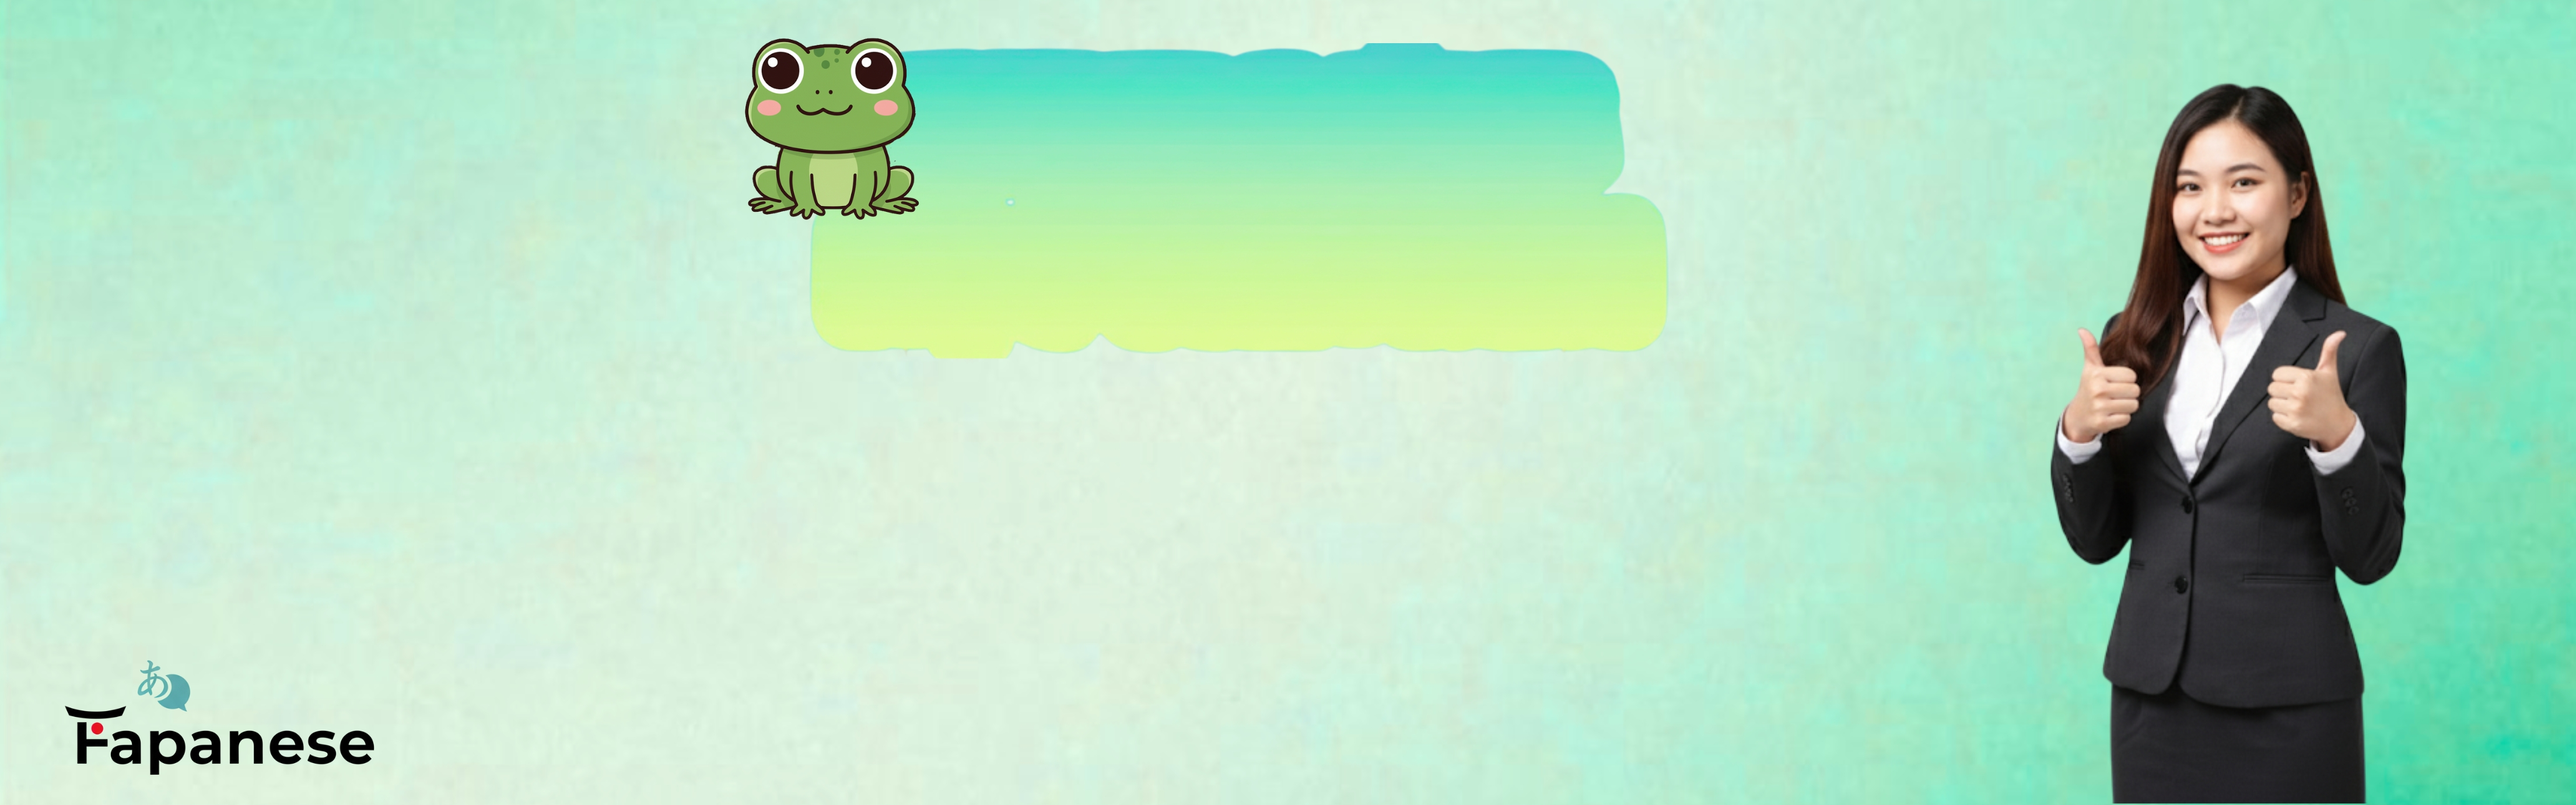
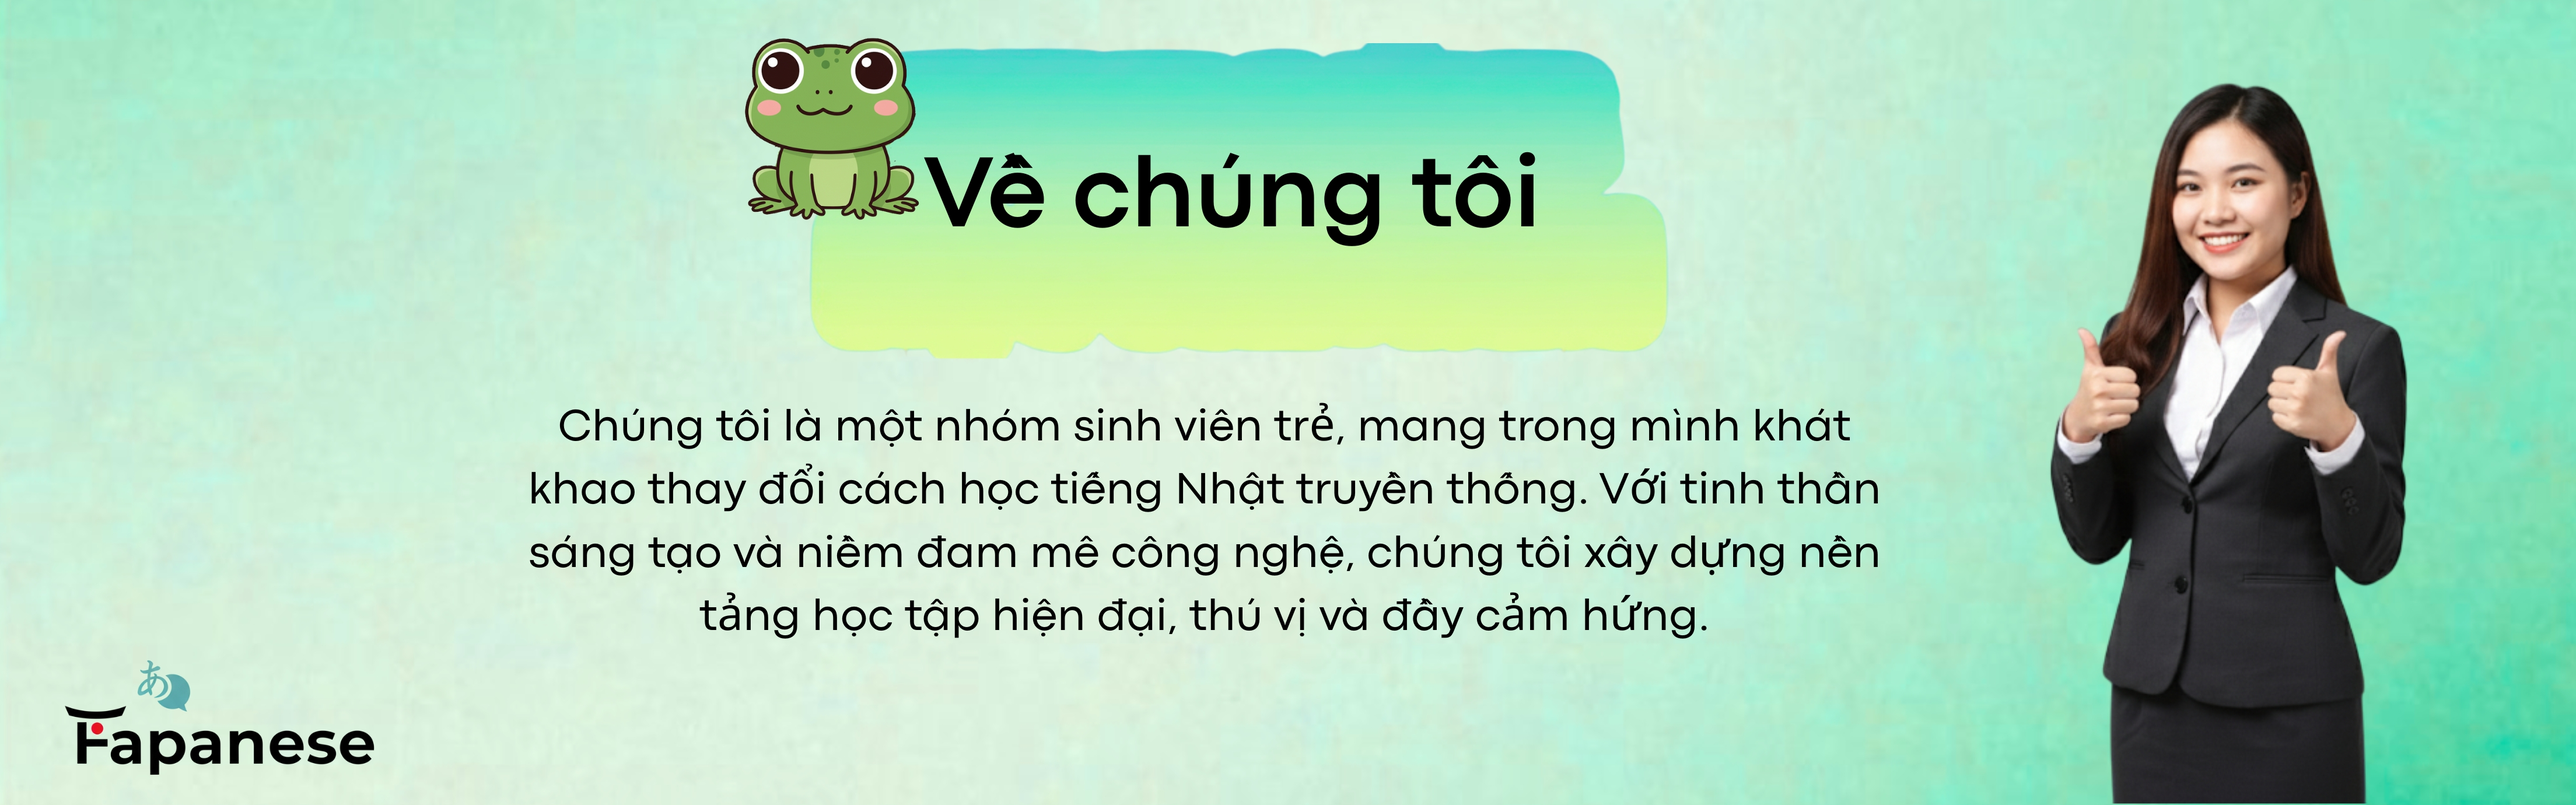
update aboutus

diff --git a/frontend/fapanese-frontend/src/pages/AboutUs.tsx b/frontend/fapanese-frontend/src/pages/AboutUs.tsx
@@ -47,6 +47,10 @@ const AboutUs: React.FC = () => {
   return (
     <div className="bg-gradient-to-b from-blue-50 to-white min-h-screen overflow-hidden font-nunito">
       {/* Hero Section */}
+      <section>
+        <img src={AboutUsBanner} alt="" className="h-[100%] mt-20 "/>
+      </section>
+  
   
 
       {/* Technologies Section */}
@@ -89,7 +93,7 @@ const AboutUs: React.FC = () => {
       <section className="py-28 bg-white relative overflow-hidden">
         <div className="max-w-6xl mx-auto text-center mb-16">
           <h2 className="text-4xl md:text-5xl font-extrabold text-gray-800 mb-4">
-            Giá Trị <span  className="text-4xl md:text-5    xl font-extrabold text-[#80D9E6]  ">Cốt Lõi</span>
+            Giá Trị <span  className="text-4xl md:text-5xl font-extrabold text-[#80D9E6]  ">Cốt Lõi</span>
           </h2>
           <p className="text-lg text-gray-600">
             Đây là kim chỉ nam, giúp chúng tôi luôn vững bước trên hành trình đổi mới giáo dục.
